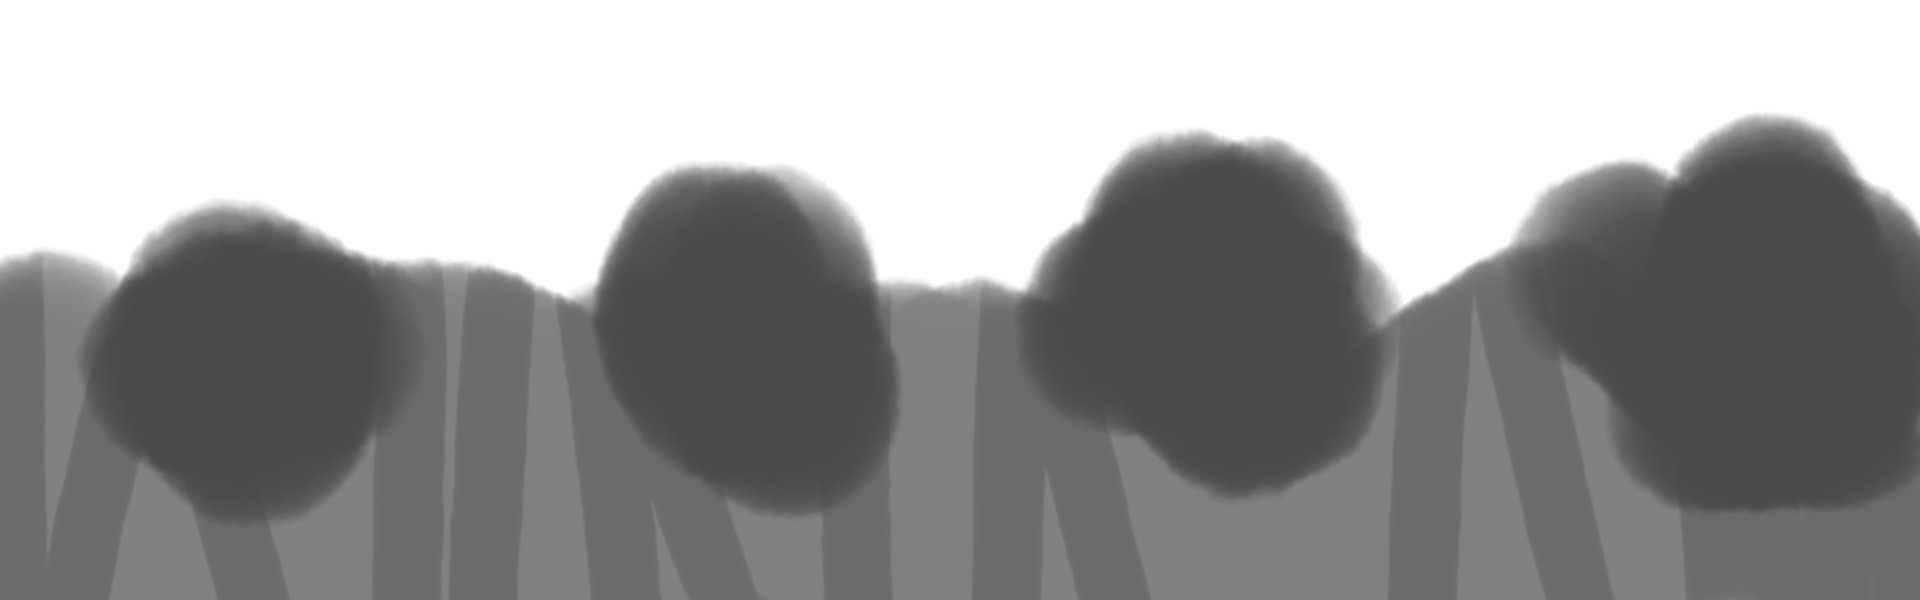
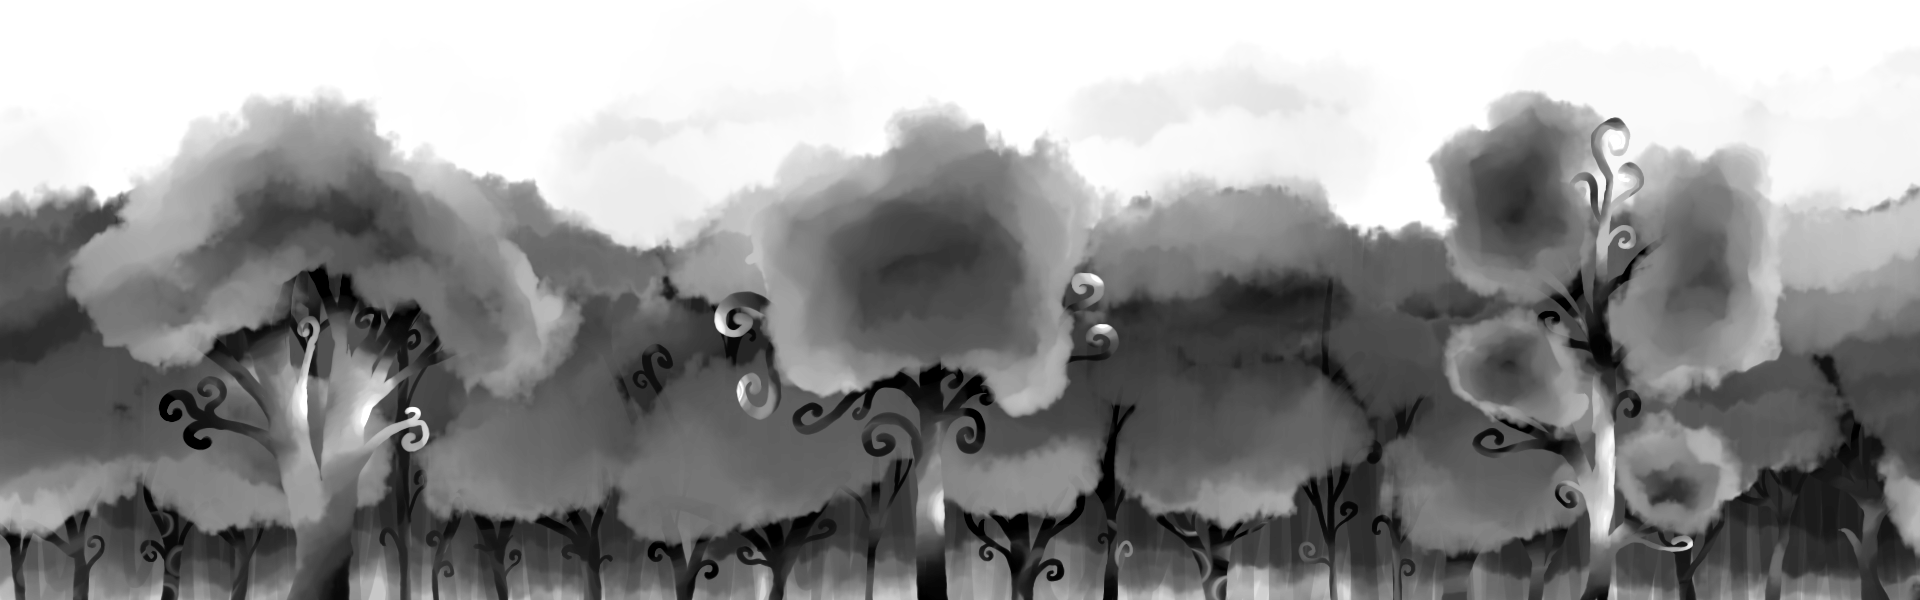
Groove grove art letsgoooo

diff --git a/src/components/GrooveGrove.scss b/src/components/GrooveGrove.scss
@@ -349,9 +349,33 @@ $z-gate: 20;
   right: 0;
   bottom: 0;
   z-index: $z-trees;
-  height: clamp(190px, 36vh, 440px);
   pointer-events: none;
   transition: filter 0.7s ease, opacity 0.7s ease;
+
+  // grove.png is 1920x600 (ratio 3.2:1) - only used below the min-aspect-
+  // ratio breakpoint further down, i.e. portrait and squarish screens, where
+  // this ratio's own natural height (100vw/3.2) never exceeds the 30vh floor
+  // by much. Past that breakpoint grove-wide.webp takes over specifically
+  // because grove.png's ratio grows *past* a sane vh budget once the screen
+  // gets meaningfully wider than it is tall - see below.
+  height: max(30vh, calc(100vw / 3.2));
+
+  // grove.png's own ratio would keep demanding more height as the screen
+  // gets wider (a plain 1920x1080 monitor alone would ask for 55vh), so past
+  // "wider than tall" the <picture> in GrooveGrove.tsx swaps in
+  // grove-wide.webp (4640x600, ratio ~7.73:1) instead. That ratio is wide
+  // enough that its own natural height stays under the 30vh floor for
+  // everything up to a genuinely ultrawide monitor (~2.3 aspect) - so in
+  // practice nearly every landscape-oriented screen, from a square window up
+  // through a normal desktop monitor, lands on a flat 30vh here, cropped
+  // gently on the sides by `cover` below rather than growing with the
+  // screen. Only past that ~2.3 point does the ratio's own math start
+  // pushing past 30vh again, same as the portrait floor above but for the
+  // opposite reason (screen wider than even this image can keep up with,
+  // rather than screen too narrow to reach the floor).
+  @media (min-aspect-ratio: 1/1) {
+    height: max(30vh, calc(100vw / 7.733));
+  }
 
   // Softens the line where the canopy meets the field, so records dissolve
   // into the grove instead of sliding behind a cardboard cut-out.
@@ -365,21 +389,13 @@ $z-gate: 20;
     background: linear-gradient(to bottom, transparent, rgba(8, 10, 7, 0.55));
   }
 
-  // A very wide image on purpose: wide screens get the whole treeline, narrow
-  // ones keep it at a sane minimum width and crop it evenly on both sides
-  // rather than squashing it into a hedge. `cover` with the position pinned
-  // high keeps the canopy and lets the trunks run off the bottom of the
-  // screen, which is where trunks belong.
   &__img {
     position: absolute;
-    bottom: 0;
-    left: 50%;
-    transform: translateX(-50%);
-    width: max(100vw, 880px);
+    inset: 0;
+    width: 100%;
     height: 100%;
     object-fit: cover;
-    object-position: 50% 18%;
-    filter: url(#landscape-color-grade) saturate(0.8) brightness(0.46) contrast(1.15);
+    filter: url(#landscape-color-grade) saturate(0.9) brightness(0.8) contrast(1.2);
   }
 }
 

diff --git a/src/components/GrooveGrove.tsx b/src/components/GrooveGrove.tsx
@@ -6,7 +6,11 @@ import ReactMarkdown from 'react-markdown';
 import VINYLS, { getCover, GROVE_TITLE, GROVE_INTRO } from '../assets/groove-grove';
 import type { GrooveVinyl, SeriesEntry } from '../assets/groove-grove';
 
-import groveImg from '../assets/grove.png';
+// grove.webp/grove-wide.webp, not the source PNGs next to them (grove.png is
+// the original artwork; grove-wide.png is an AI-extended, wider companion
+// stitched from two generations - see GroveTrees below for why it exists).
+import groveImg from '../assets/grove.webp';
+import groveWideImg from '../assets/grove-wide.webp';
 // vinyl.webp, not the 743KB source PNG next to it: the record is never drawn
 // wider than ~208px.
 import vinylImg from '../assets/vinyl.webp';
@@ -1149,7 +1153,25 @@ function GrooveGrove({ open, onClose }: GrooveGroveProps) {
             transition={{ duration: 1.25, ease: [0.16, 0.86, 0.24, 1] }}
             aria-hidden
           >
-            <img src={groveImg} alt="" className="groove-trees__img" />
+            {/* grove.png's own ratio (3.2:1) keeps demanding more height as
+                the screen gets wider than tall (a plain 1920x1080 monitor
+                alone would ask for 55vh - see .groove-trees in the
+                stylesheet), so past "wider than tall" the browser swaps in
+                grove-wide.webp instead - a ~7.7:1 companion with the real
+                grove.png pixel-perfect in the centre and two AI-generated
+                flanking panels (same art style, a genuinely different tree
+                arrangement each - not a repeat of the centre or of each
+                other) crossfaded onto its sides. That ratio is wide enough
+                to stay under the height floor for everything up to a
+                genuinely ultrawide monitor, so in practice this covers
+                nearly every landscape screen, not just extreme ones - the
+                breakpoint has to match .groove-trees's own media query
+                exactly or the box and the image it's showing fall out of
+                sync. */}
+            <picture>
+              <source srcSet={groveWideImg} media="(min-aspect-ratio: 1/1)" />
+              <img src={groveImg} alt="" className="groove-trees__img" />
+            </picture>
           </motion.div>
 
           <button className="groove-close" onClick={onClose} aria-label="Close">×</button>
